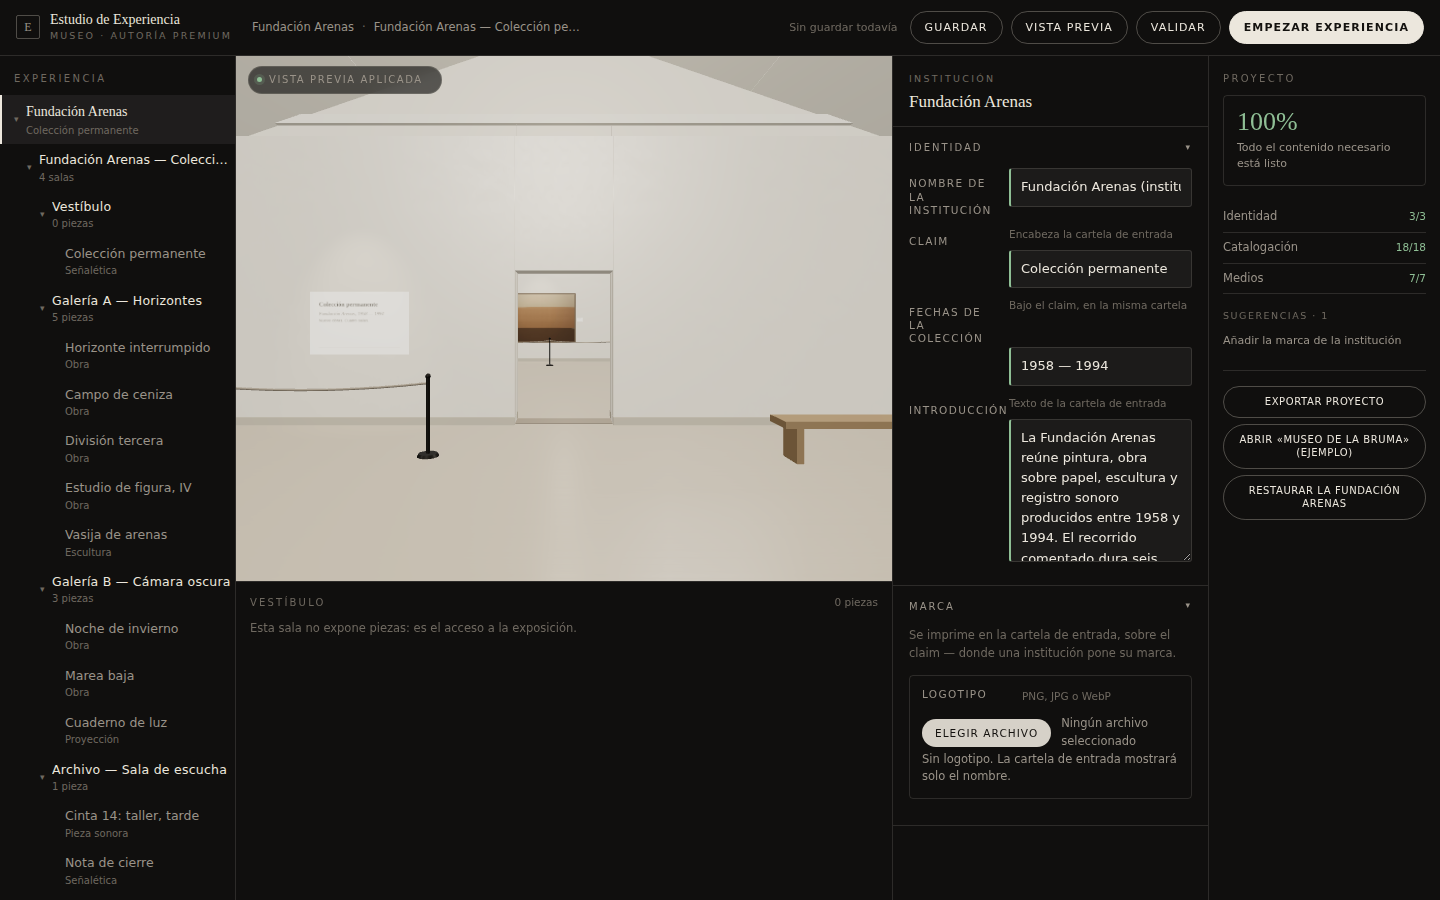
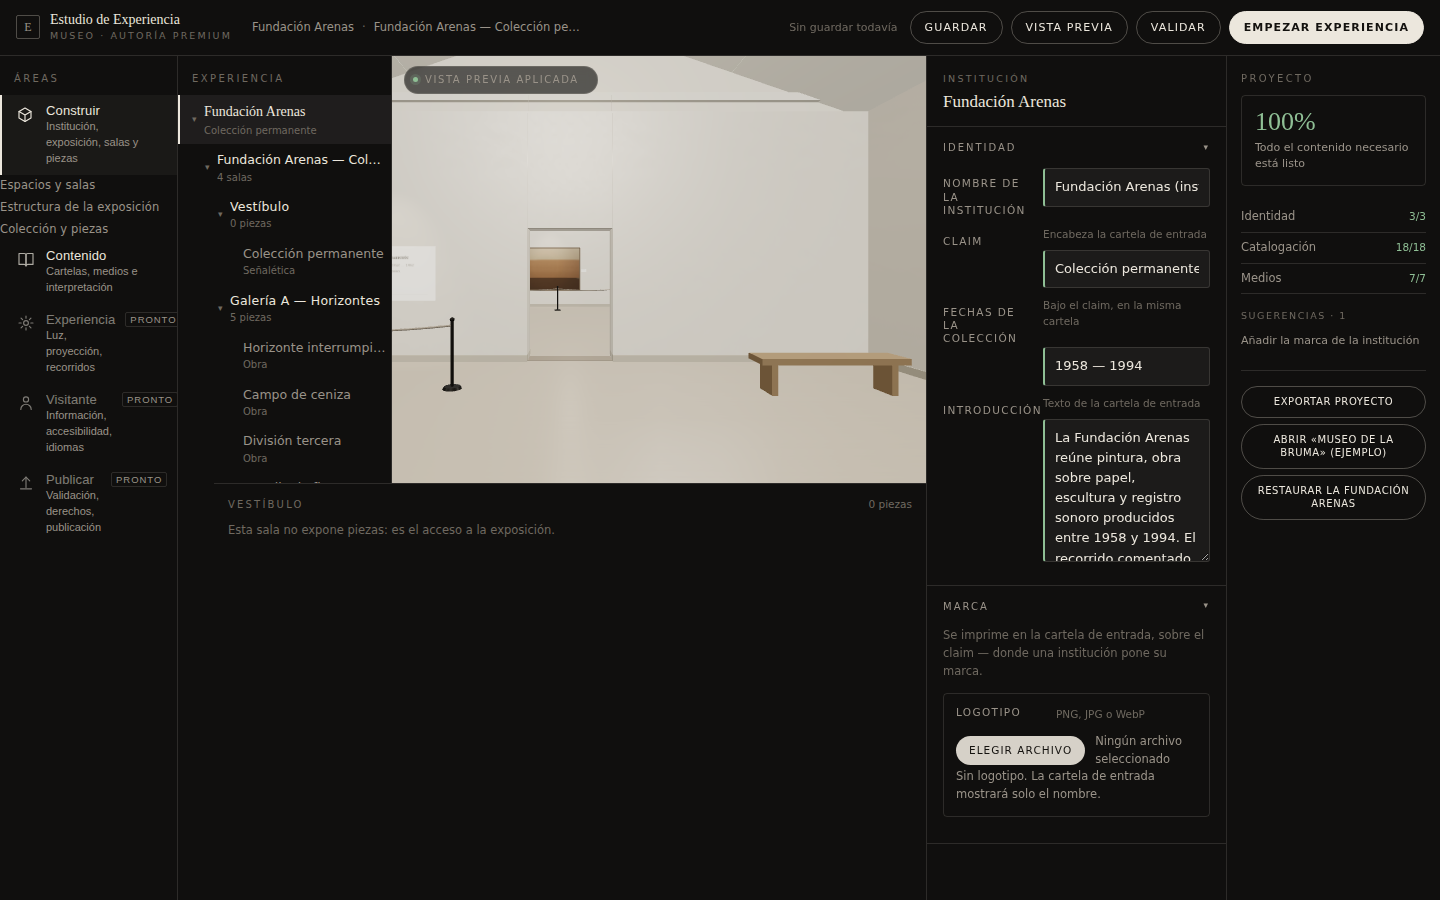
feat(museum): give the workspace its spine — the five Authoring domains, visible
Gap 1 of 3 against the approved UI reference.

The system blueprint is organised around five Authoring Workspaces — BUILD,
CONTENT, EXPERIENCE, VISITOR, PUBLISH — and the reference puts them in the
left rail, with icons, as the first thing an author sees. VS02 had all five
in code and hid them with `display: none`, demoting them to a filter strip
inside the validation column. The product's own architecture was invisible
in the thing you navigate with, and beside the reference the shell read as
one form next to a viewport rather than as a platform whose scope you can
see at a glance.

The rail is now the leftmost column: an icon, the domain, what lives in it,
and — when active — its sub-areas from the blueprint. Three domains say
"Pronto" rather than pretending to exist; hiding them would make the
product look smaller than it is planned to be and would leave nowhere for
future capability gating to attach.

Icons are drawn inline, stroked, monochrome. The page must stay one file,
and an icon font would be a second rendering truth for glyphs. The approved
reference paints its chrome gold throughout; house art direction gives the
only saturated colour to the art on the walls, so that is where this
deliberately diverges.

Two regressions from my own change, caught in the capture and fixed:

- #iw-stage and .st-film are positioned against the viewport, so every
  column to their left has to be named. Adding a rail without adding it to
[…]

diff --git a/labs/immersive-worlds/authoring/studio/studio.css b/labs/immersive-worlds/authoring/studio/studio.css
@@ -29,9 +29,10 @@
   --st-bad: #e08a80;
 
   --st-top: 56px;
-  --st-left: 236px;
-  --st-editor: 316px;
-  --st-val: 232px;
+  --st-rail: 178px;
+  --st-left: 214px;
+  --st-editor: 300px;
+  --st-val: 214px;
 }
 
 /* The Museum, docked — and letterboxed to the shape the visitor will actually
@@ -42,7 +43,7 @@
 body[data-studio="on"] #iw-stage,
 body[data-studio="on"] #iw-ui {
   top: var(--st-top);
-  left: var(--st-left);
+  left: calc(var(--st-rail) + var(--st-left));
   right: calc(var(--st-editor) + var(--st-val));
   bottom: auto;
   height: var(--st-canvas-h, 62vh);
@@ -54,7 +55,7 @@ body[data-studio="on"] #iw-ui {
 .st-film {
   position: fixed;
   top: calc(var(--st-top) + var(--st-canvas-h, 62vh));
-  left: var(--st-left);
+  left: calc(var(--st-rail) + var(--st-left));
   right: calc(var(--st-editor) + var(--st-val));
   bottom: 0;
   background: var(--st-ground);
@@ -180,7 +181,7 @@ body[data-studio="on"] .iw-topbar { display: none; }
 
 .st-body {
   display: grid;
-  grid-template-columns: var(--st-left) 1fr var(--st-editor) var(--st-val);
+  grid-template-columns: var(--st-rail) var(--st-left) 1fr var(--st-editor) var(--st-val);
   min-height: 0;
 }
 /* The Museum shows through. Positioned, so the live badge anchors to the preview
@@ -192,7 +193,43 @@ body[data-studio="on"] .iw-topbar { display: none; }
   overflow-y: auto;
   min-height: 0;
 }
-.st-rail { display: none; }           /* domains live above the tree, see .st-tree h2 */
+/* The workspace spine. Hairline marks, no fills, no accent colour: the rail
+   frames the art and must not compete with it. */
+.st-rail { border-right: 1px solid var(--st-line); padding: 16px 0 28px; }
+.st-rail h2 { padding: 0 14px; }
+.st-rail > ul { list-style: none; margin: 0; padding: 0; }
+.st-rail ul.st-areas { list-style: none; margin: 2px 0 10px; padding: 0 14px 0 44px; }
+.st-areas li {
+  font-size: 11.5px; line-height: 1.9; color: var(--st-dim);
+  letter-spacing: .01em;
+}
+.st-dom {
+  display: grid; grid-template-columns: 20px 1fr auto; align-items: start;
+  gap: 10px; width: 100%; padding: 8px 14px; border: 0; background: none;
+  text-align: left; color: var(--st-ink); cursor: pointer;
+  border-left: 2px solid transparent;
+}
+.st-dom svg {
+  width: 20px; height: 20px; fill: none; stroke: currentColor;
+  stroke-width: 1.15; stroke-linecap: round; stroke-linejoin: round;
+  opacity: .72; margin-top: 1px;
+}
+.st-dom b { display: block; font-size: 13px; font-weight: 500; letter-spacing: .01em; }
+.st-dom i {
+  display: block; font-style: normal; font-size: 11px; line-height: 1.45;
+  color: var(--st-dim); margin-top: 1px;
+}
+.st-dom em {
+  font-style: normal; font-size: 9.5px; letter-spacing: .1em; text-transform: uppercase;
+  color: var(--st-dim); border: 1px solid var(--st-line); border-radius: 2px;
+  padding: 1px 4px; white-space: nowrap;
+}
+.st-dom:hover:not(:disabled) { background: var(--st-raise); }
+.st-dom:hover:not(:disabled) svg { opacity: 1; }
+.st-dom.is-on { background: var(--st-raise); border-left-color: var(--st-ink); }
+.st-dom.is-on svg { opacity: 1; }
+.st-dom:disabled { cursor: default; }
+.st-dom:disabled b, .st-dom:disabled svg { opacity: .5; }
 .st-tree { border-right: 1px solid var(--st-line); padding: 16px 0 28px; }
 .st-ed { border-left: 1px solid var(--st-line); padding-bottom: 40px; }
 .st-val { border-left: 1px solid var(--st-line); padding: 16px 14px 28px; }
@@ -428,8 +465,12 @@ h2 {
 /* == narrower: the validation column folds into the editor ================= */
 
 @media (max-width: 1240px) {
-  :root { --st-left: 208px; --st-editor: 300px; --st-val: 0px; }
-  .st-body { grid-template-columns: var(--st-left) 1fr var(--st-editor); }
+  :root { --st-rail: 52px; --st-left: 208px; --st-editor: 300px; --st-val: 0px; }
+  .st-body { grid-template-columns: var(--st-rail) var(--st-left) 1fr var(--st-editor); }
+  /* The spine keeps its place but gives up its words: an icon column still says
+     where you are, and the preview does not pay for it. */
+  .st-rail h2, .st-dom span, .st-dom em, .st-areas { display: none; }
+  .st-dom { grid-template-columns: 20px; justify-items: center; padding: 10px 0; }
   .st-val {
     position: fixed; right: 0; bottom: 0; width: var(--st-editor);
     max-height: 46vh; border-top: 1px solid var(--st-line-strong); z-index: 3;
@@ -476,6 +517,25 @@ h2 {
   }
   .st-stage { display: none; }
   .st-film { display: none; }
+
+  /* Stacked, the spine would be five tall rows before the author reached
+     anything to edit. It becomes a strip that scrolls sideways instead, keeping
+     its words — there is room for them here, and an icon alone at the top of a
+     phone screen is a puzzle rather than a signpost. */
+  .st-rail { border-right: 0; border-bottom: 1px solid var(--st-line); padding: 10px 0; }
+  .st-rail h2 { display: none; }
+  .st-rail > ul {
+    display: flex; gap: 6px; overflow-x: auto; padding: 0 10px;
+    scrollbar-width: none;
+  }
+  .st-rail > ul::-webkit-scrollbar { display: none; }
+  .st-rail > ul > li { flex: 0 0 auto; }
+  .st-dom {
+    grid-template-columns: 18px auto; align-items: center; gap: 7px;
+    border: 1px solid var(--st-line); border-radius: 3px; padding: 7px 10px;
+  }
+  .st-dom.is-on { border-color: var(--st-line-strong); }
+  .st-dom i, .st-dom em, .st-areas { display: none; }
 
   /* Two strings the collapsed header used to drop, and they are the two the
      author most needs: where am I, and is my work saved. */

diff --git a/labs/immersive-worlds/authoring/studio/studio-shell.js b/labs/immersive-worlds/authoring/studio/studio-shell.js
@@ -105,12 +105,69 @@ function humanRef(node, position) {
 const esc = (v) => String(v ?? '').replace(/[&<>"]/g, (c) => ({ '&': '&amp;', '<': '&lt;', '>': '&gt;', '"': '&quot;' }[c]));
 
 /** The five domains of the blueprint. VS02 implements the two it can honour. */
+/**
+ * Hairline marks, drawn rather than fetched — the page must stay one file, and
+ * an icon font would be a second rendering truth for glyphs.
+ *
+ * Monochrome and stroked, never filled with colour: house art direction gives
+ * the only saturated colour in the room to the art on the walls, so the rail
+ * that frames the art cannot compete with it. The approved reference paints its
+ * chrome gold throughout; that is the one place this deliberately diverges.
+ */
+const ICON = Object.freeze({
+  build: '<path d="M3 7.5 9 4l6 3.5V14L9 17.5 3 14Z"/><path d="M3 7.5 9 11l6-3.5M9 11v6.5"/>',
+  content: '<path d="M3 4.5h5.2c.99 0 1.8.81 1.8 1.8V17a2 2 0 0 0-2-1.6H3Z"/><path d="M17 4.5h-5.2c-.99 0-1.8.81-1.8 1.8V17a2 2 0 0 1 2-1.6H17Z"/>',
+  experience: '<circle cx="10" cy="10" r="2.4"/><path d="M10 3v2.2M10 14.8V17M3 10h2.2M14.8 10H17M5.05 5.05l1.55 1.55M13.4 13.4l1.55 1.55M14.95 5.05 13.4 6.6M6.6 13.4l-1.55 1.55"/>',
+  visitor: '<circle cx="10" cy="6.4" r="2.6"/><path d="M4.8 16.4a5.2 5.2 0 0 1 10.4 0"/>',
+  publish: '<path d="M10 14.5V4.2"/><path d="m6.3 7.9 3.7-3.7 3.7 3.7"/><path d="M4.5 15.8h11"/>'
+});
+
+/**
+ * The Authoring Workspaces, as the system blueprint names them.
+ *
+ * These five are the product's spine, not a filter: the blueprint draws them as
+ * the domains the whole platform is organised by, and the sub-areas under each
+ * are where a future plan or role will attach its capabilities. Three of them
+ * are honest about not being built yet — hiding that would make the product
+ * look smaller than it is planned to be, and would leave nowhere for the
+ * capability gating to land.
+ */
 const DOMAINS = [
-  { id: 'build', label: 'Construir', hint: 'Institución, exposición, salas y piezas', ready: true },
-  { id: 'content', label: 'Contenido', hint: 'Cartelas, medios e interpretación', ready: true },
-  { id: 'experience', label: 'Experiencia', hint: 'Luz, proyección, recorridos', ready: false },
-  { id: 'visitor', label: 'Visitante', hint: 'Información, accesibilidad, idiomas', ready: false },
-  { id: 'publish', label: 'Publicar', hint: 'Validación, derechos, publicación', ready: false }
+  {
+    id: 'build',
+    label: 'Construir',
+    hint: 'Institución, exposición, salas y piezas',
+    ready: true,
+    areas: ['Espacios y salas', 'Estructura de la exposición', 'Colección y piezas']
+  },
+  {
+    id: 'content',
+    label: 'Contenido',
+    hint: 'Cartelas, medios e interpretación',
+    ready: true,
+    areas: ['Datos de la obra', 'Cartelas', 'Interpretación curatorial', 'Medios']
+  },
+  {
+    id: 'experience',
+    label: 'Experiencia',
+    hint: 'Luz, proyección, recorridos',
+    ready: false,
+    areas: ['Iluminación', 'Proyección', 'Recorridos', 'Comportamientos', 'Audio']
+  },
+  {
+    id: 'visitor',
+    label: 'Visitante',
+    hint: 'Información, accesibilidad, idiomas',
+    ready: false,
+    areas: ['Información al visitante', 'Accesibilidad', 'Idiomas', 'Guía']
+  },
+  {
+    id: 'publish',
+    label: 'Publicar',
+    hint: 'Validación, derechos, publicación',
+    ready: false,
+    areas: ['Validación', 'Derechos y fuentes', 'Exportación', 'Publicación']
+  }
 ];
 
 export class StudioShell {
@@ -341,16 +398,38 @@ export class StudioShell {
       </header>`;
   }
 
+  /**
+   * The workspace spine.
+   *
+   * This existed as markup and was hidden by a stylesheet, with the domains
+   * demoted to a filter strip inside the validation column. The cost was that
+   * the product's own architecture — the five Authoring Workspaces the system
+   * blueprint is built around — was invisible in the thing an author navigates
+   * with. Beside the approved reference the shell read as one form next to a
+   * viewport, rather than as a platform whose scope you can see at a glance.
+   */
   _rail() {
     return `
       <nav class="st-rail" aria-label="Áreas de trabajo">
-        ${DOMAINS.map((d) => `
-          <button class="st-dom ${d.id === this.domain ? 'is-on' : ''} ${d.ready ? '' : 'is-later'}"
-            data-domain="${d.id}" ${d.ready ? '' : 'disabled'}>
-            <b>${esc(d.label)}</b>
-            <i>${esc(d.hint)}</i>
-            ${d.ready ? '' : '<em>Más adelante</em>'}
-          </button>`).join('')}
+        <h2>Áreas</h2>
+        <ul>
+          ${DOMAINS.map((d) => {
+    const on = d.id === this.domain;
+    return `
+            <li>
+              <button class="st-dom ${on ? 'is-on' : ''} ${d.ready ? '' : 'is-later'}"
+                data-domain="${d.id}" ${d.ready ? '' : 'disabled'}
+                aria-current="${on ? 'true' : 'false'}"
+                title="${esc(d.hint)}${d.ready ? '' : ' · en preparación'}">
+                <svg viewBox="0 0 20 20" aria-hidden="true" focusable="false">${ICON[d.id]}</svg>
+                <span><b>${esc(d.label)}</b><i>${esc(d.hint)}</i></span>
+                ${d.ready ? '' : '<em>Pronto</em>'}
+              </button>
+              ${on && d.areas ? `<ul class="st-areas">${
+  d.areas.map((a) => `<li>${esc(a)}</li>`).join('')}</ul>` : ''}
+            </li>`;
+  }).join('')}
+        </ul>
       </nav>`;
   }
 

diff --git a/docs/architecture/immersive-worlds/CONSTITUTION.md b/docs/architecture/immersive-worlds/CONSTITUTION.md
@@ -1565,3 +1565,98 @@ Approval must be explicit. A merged document without explicit product review mus
 ## Guiding statement
 
 > **Immersive Worlds is not a 3D website. It is a reusable system for building, exploring, connecting, directing, narrating and publishing interactive worlds — proven first through a small, complete Museum / Institutional world.**
+---
+
+# 36. Escaparates Pro — who authors, who reviews, who visits
+
+Added because the Authoring work kept meeting decisions this document could not
+settle. It records what Escaparates Pro is *for*, so that a later contributor
+does not have to infer it from the code and infer it differently.
+
+Escaparates Pro serves **two creator/business use cases** and **one final
+consumption context**. They are not three views of one screen; they are three
+different products' worth of intent, and conflating them is the failure mode
+this section exists to prevent.
+
+## 36.1 Studio / Authoring — internal professional production
+
+The Studio is a real professional production environment, not a demonstration
+UI. The house must be able to run its own client work through it:
+
+```text
+CREATE → PERSONALIZE → PREVIEW → VALIDATE → SAVE → EXPORT/CAPTURE → DELIVER
+```
+
+Every one of those verbs is a product surface, and the chain does not end at
+SAVE. A tool that can author but not deliver is half a tool.
+
+## 36.2 Studio / Authoring — paid self-service platform
+
+The same architecture must later support other people paying to use it:
+accounts, tiers, and capability gating by plan or role.
+
+Capabilities are named per capability, never per screen — the unit of gating is
+what someone may *do*, so that a plan can grant `artwork_image` while withholding
+`artwork_video` without either one needing its own copy of a panel:
+
+```text
+institution_branding   artwork_image      artwork_video
+projection_image       projection_video   custom_text
+advanced_layout        export_json        export_html
+export_png             export_video       publish_hosted
+custom_domain          ai_guide           analytics
+```
+
+**Billing, accounts and plan logic are out of scope for now.** What is in scope
+is not foreclosing them: the five Authoring Workspaces and their sub-areas are
+the surface those capabilities attach to, which is one reason the workspace
+spine is part of the shell rather than a filter hidden in a column.
+
+## 36.3 Visitor experience — final consumption
+
+**The visitor never authors.** A visitor may navigate, explore, use Guided mode,
+Focus and Browse, interact, and in future use accessibility, language and AI
+guide features.
+
+A visitor must never see upload controls, authoring fields, project save,
+configuration, personalization, export tools, or publishing controls. Not
+disabled, not hidden behind a role check in the same panel — absent.
+
+## 36.4 The canonical separation
+
+```text
+STUDIO / AUTHORING  ≠  PREVIEW / REVIEW  ≠  VISITOR EXPERIENCE
+```
+
+All three run the **real Museum runtime**. That is not negotiable, and it is the
+reason `NO SECOND RENDERING TRUTH` (§9) is load-bearing here: the way to keep a
+preview honest is to make it the same engine, not a mock of it.
+
+### Open product debt — Author Preview vs Visitor Preview
+
+Framing the selected work in the Studio preview uses the runtime's own focus
+path, so the author sees the visitor's presentation of that work — caption,
+paging, "volver a la sala". That is currently *desirable*: it is live proof that
+edited metadata reaches the wall.
+
+It is also not yet the finished idea. The long-term UX should distinguish an
+**Author Preview** from a **Visitor Experience Preview**, both on the real
+runtime, differing in chrome rather than in rendering. Recorded here as debt so
+it is not rediscovered as a bug.
+
+## 36.5 Output / Publish — future layer
+
+`EXPORTAR PROYECTO` is the first step of an Output layer, not the whole of it.
+Decisions taken now must stay compatible with:
+
+| Layer | Deliverable |
+|---|---|
+| Project / config | JSON |
+| Experience | HTML / standalone package |
+| Visual | PNG, screenshots, contact sheets |
+| Motion | Video walkthrough / presentation output |
+| Publish | Hosted, client review, production experience |
+
+**Export is not visitor mode.** Leaving the Studio to look at the experience is
+not the same act as producing an artefact for a client, and the two must not
+share a button.
